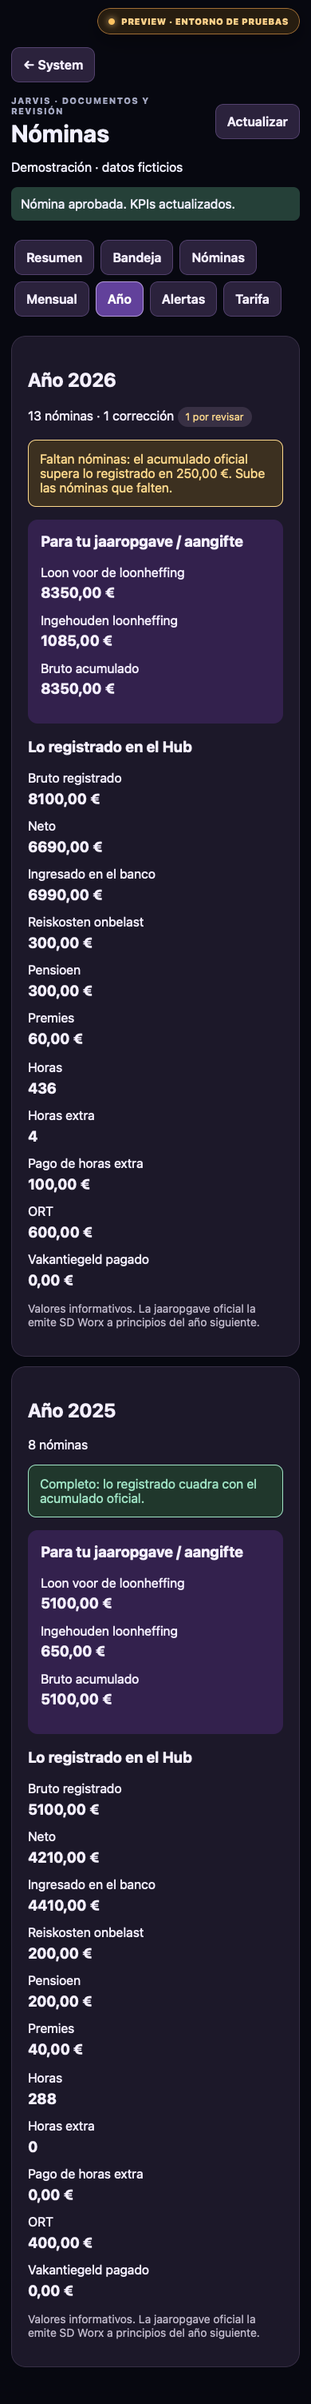
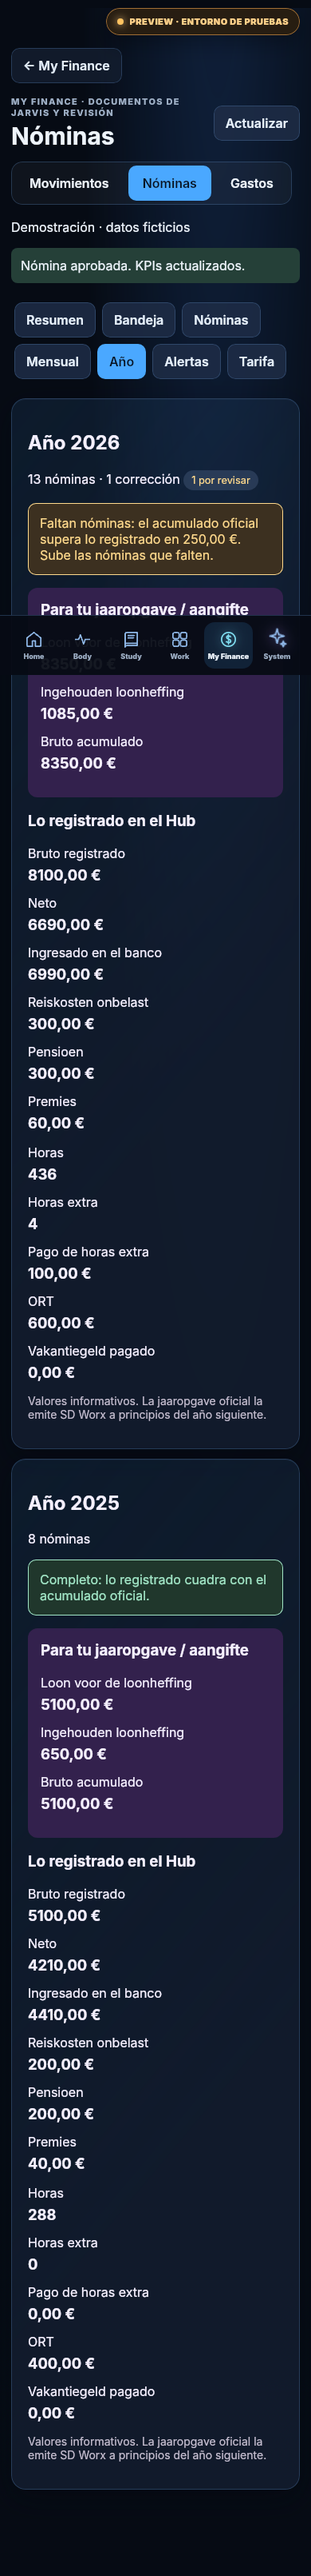
RISE HUB: tarjetas sin backdrop-filter y Home en azul
- Quita backdrop-filter de las tarjetas y el fondo fijo: en WebKit obligaban a
  repintar continuamente (el E2E de Nóminas en WebKit 27 fallaba con
  "element is not stable") y cuestan rendimiento en Safari/iPhone.
  Superficies algo más opacas para mantener el aspecto.
- Tarjetas e iconos de Home en azul (las reglas nth-child de index.html ganaban).
- Caché renzo-hub-cloud-v8.1-rise.

Pruebas: 88/88 unitarias; E2E Nóminas Chromium y WebKit OK; E2E autenticado 36/36.

Claude-Session: https://claude.ai/code/session_019zuKrwJHxN8GjEhtNQdRS7

Changed region(s): [[0.0308, 0.0, 0.9846, 0.9897], [0.9231, 0.5567, 0.9538, 0.5876], [0.0308, 0.5567, 0.0615, 0.5876]]

diff --git a/assets/rise-theme.css b/assets/rise-theme.css
@@ -4,7 +4,7 @@
    (re-implementado aquí en CSS; no se copia código del prototipo). */
 :root {
   --bg: #060b14;
-  --card: rgba(20, 30, 48, .74);
+  --card: rgba(20, 30, 48, .9);
   --card2: rgba(31, 45, 70, .78);
   --text: #eef4fb;
   --muted: #9fb0c6;
@@ -13,7 +13,7 @@
   --line: rgba(86, 128, 182, .34);
   --ok: #6fe0b4;
   --danger: #ff8a7a;
-  --rise-panel: rgba(20, 30, 48, .72);
+  --rise-panel: rgba(18, 28, 46, .92);
   --rise-panel-strong: rgba(24, 36, 58, .96);
   --rise-glow: 0 0 32px rgba(74, 168, 255, .18);
   --rise-shadow: 0 12px 36px rgba(2, 5, 12, .38), inset 0 1px 0 rgba(160, 205, 255, .05);
@@ -22,7 +22,7 @@
 }
 
 html, body { background: var(--bg); color: var(--text); }
-body { background: radial-gradient(ellipse at 70% -15%, rgba(40, 92, 170, .30), transparent 45%), var(--bg); background-attachment: fixed; }
+body { background: radial-gradient(ellipse at 70% -15%, rgba(40, 92, 170, .30), transparent 45%), var(--bg); }
 @media (min-width: 1024px) { body { background: radial-gradient(ellipse at 68% -20%, rgba(40, 92, 170, .34) 0, transparent 40%), var(--bg); } }
 
 /* Superficies de cristal */
@@ -30,9 +30,9 @@ body { background: radial-gradient(ellipse at 70% -15%, rgba(40, 92, 170, .30), 
   background: var(--rise-gradient);
   border-color: var(--line);
   box-shadow: var(--rise-shadow);
-  -webkit-backdrop-filter: blur(12px);
-  backdrop-filter: blur(12px);
 }
+/* Sin backdrop-filter en tarjetas: en Safari/WebKit obliga a repintar toda la pantalla y hace la app más lenta.
+   El efecto cristal se consigue con superficies semiopacas y brillo. */
 .quick div, .switch, .secondary { background: var(--card2); }
 textarea, input, select { background: rgba(10, 17, 30, .85); border-color: var(--line); color: var(--text); }
 textarea:focus-visible, input:focus-visible, select:focus-visible, button:focus-visible { outline: 2px solid var(--accent); outline-offset: 2px; }
@@ -72,7 +72,8 @@ input[type="checkbox"] { accent-color: var(--accent); }
 .home-intro p { color: #c8d6e8; }
 .area-label { color: #d6e2f0; }
 .area-label svg { color: var(--accent2); }
-.home-apps .app:hover { border-color: rgba(74, 168, 255, .6); box-shadow: var(--rise-shadow), 0 0 20px rgba(74, 168, 255, .14); }
+html .home-apps .app { background: linear-gradient(150deg, rgba(24, 38, 62, .92), rgba(14, 22, 38, .94)); border-color: var(--line); }
+html .home-apps .app:hover { background: linear-gradient(150deg, rgba(30, 48, 78, .94), rgba(16, 26, 44, .95)); border-color: rgba(74, 168, 255, .6); box-shadow: var(--rise-shadow), 0 0 20px rgba(74, 168, 255, .14); }
 .worldhero { background: radial-gradient(ellipse at top right, rgba(74, 168, 255, .25), transparent 65%), var(--card); border-color: rgba(86, 140, 210, .5); }
 .study-next { border-color: rgba(86, 140, 210, .5); background: radial-gradient(ellipse at 88% 0, rgba(74, 168, 255, .22), transparent 45%), var(--rise-panel); }
 
@@ -101,11 +102,7 @@ html #gastos .pay-actions button[data-bank-save] { background: var(--accent); co
 html #payroll .pay-extra-row { border-left-color: var(--accent); }
 
 /* Iconos de las microapps en Home: misma familia azul (antes violeta) */
-.home-apps .app-icon, .home-apps [class*="app-icon--"] { background: radial-gradient(circle at 80% 12%, rgba(127, 220, 240, .28), transparent 42%), linear-gradient(145deg, #1d3a66, #142238); border-color: rgba(127, 190, 255, .22); }
+html .home-apps .app:nth-child(n) .app-icon { background: radial-gradient(circle at 80% 12%, rgba(127, 220, 240, .28), transparent 42%), linear-gradient(145deg, #1d3a66, #142238); border-color: rgba(127, 190, 255, .22); }
 
 .update-banner { background: var(--rise-panel-strong); border-color: var(--accent); }
 .env-badge { border-color: var(--line); }
-
-@media (prefers-reduced-motion: reduce) {
-  .hero, .card, .app { -webkit-backdrop-filter: none; backdrop-filter: none; }
-}

diff --git a/sw.js b/sw.js
@@ -1,4 +1,4 @@
-const CACHE='renzo-hub-cloud-v8.0-rise';
+const CACHE='renzo-hub-cloud-v8.1-rise';
 const CORE=['/microapps/registry.js','/microapps/gastos/gastos.js','/microapps/gastos/categories.js','/microapps/gastos/gastos.css','/microapps/records.js','/microapps/ui.js','/microapps/errors.js','/microapps/backup/export.js','/microapps/skin/skin.js','/microapps/notes/notes.js','/microapps/bank/ing-csv.js','/microapps/bank/bank-import-ui.js','/microapps/bank/revolut.js','/payroll.js','/payroll-upload-ui.js','/payroll-pdf.js','/payroll.css','/payroll-demo.js','/','/app.js','/profile.js','/phase1.js','/gym.js','/news.js','/world.js','/world-extensions.js','/jarvis-ui.js','/manifest.webmanifest','/release.json','/assets/rise-theme.css','/assets/rise-mark-96-v1.webp','/assets/rise-mark-384-v1.webp','/assets/rise-favicon-48-v1.png','/assets/rise-icon-180-v1.png','/assets/rise-icon-192-v1.png','/assets/rise-icon-512-v1.png','/assets/rise-icon-512-maskable-v1.png'];
 self.addEventListener('install',e=>e.waitUntil(caches.open(CACHE).then(c=>c.addAll(CORE)).then(()=>fetch('/api/supabase-config',{cache:'no-store'}).then(r=>r.ok?caches.open(CACHE).then(c=>c.put('/api/supabase-config',r)):null).catch(()=>null))));
 self.addEventListener('message',e=>{if(e.data?.type==='SKIP_WAITING')self.skipWaiting();});

diff --git a/RENZO-HUB-CURRENT.md b/RENZO-HUB-CURRENT.md
@@ -17,7 +17,7 @@
 - Logo R de cristal aprobado en Lovable: iconos 180/192/512, 512 maskable, favicon y marca en webp (`assets/rise-*-v1.*`).
 - Paleta azul eléctrico y cian sobre fondo `#060b14` con superficies de cristal: `assets/rise-theme.css`, cargado después de los estilos de `index.html`. Solo colores y marca; no cambia estructura ni comportamiento. Nóminas y Gastos con reglas propias porque sus hojas se cargan después.
 - Diseño re-implementado en CSS a partir del prototipo de Lovable; no se copia código del prototipo y no se porta su módulo de Nodalys.
-- Caché `renzo-hub-cloud-v8.0-rise`. Copia descargada: `rise-hub-copia-AAAA-MM-DD.json`.
+- Caché `renzo-hub-cloud-v8.1-rise`. Copia descargada: `rise-hub-copia-AAAA-MM-DD.json`.
 - Siguientes etapas: 2) nueva Home (hero, Hoy, Áreas, Progreso); 3) portadas de microapps y animación de apertura. Cada una con su PR a staging.
 
 ## Esquema completo de producción comprobado (2026-10-12)
